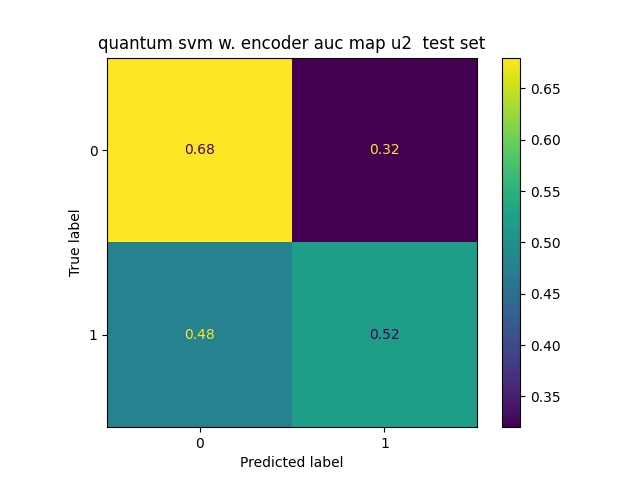
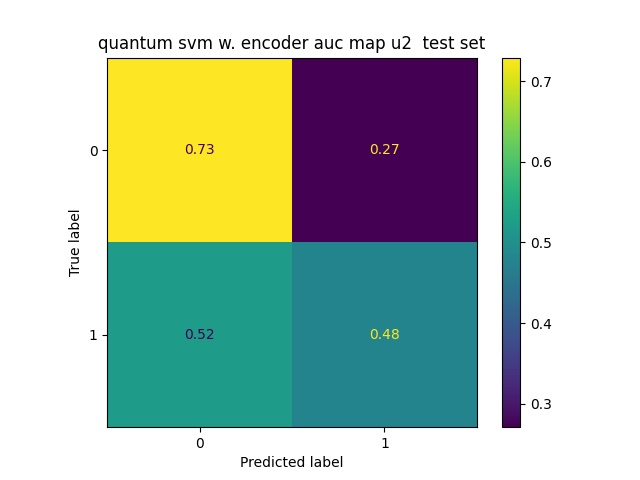
all correct in auc

diff --git a/whole.py b/whole.py
@@ -155,7 +155,7 @@ for encoder in encoders:
     if PROBA:
         print(f"\t\t CALCULATING ROC AUC SCORES: this may take some time")
         y_proba = svm.predict_proba(x_tf_train[:PREDICTIONS])
-        score = roc_auc_score(y_train[:PREDICTIONS], y_proba[:,1])
+        score = roc_auc_score(y_train[:PREDICTIONS], y_proba[:,0])
 
         print(f"\t\t Classical svm ROC AUC score TRAINING SET {score :.2f}")
 
